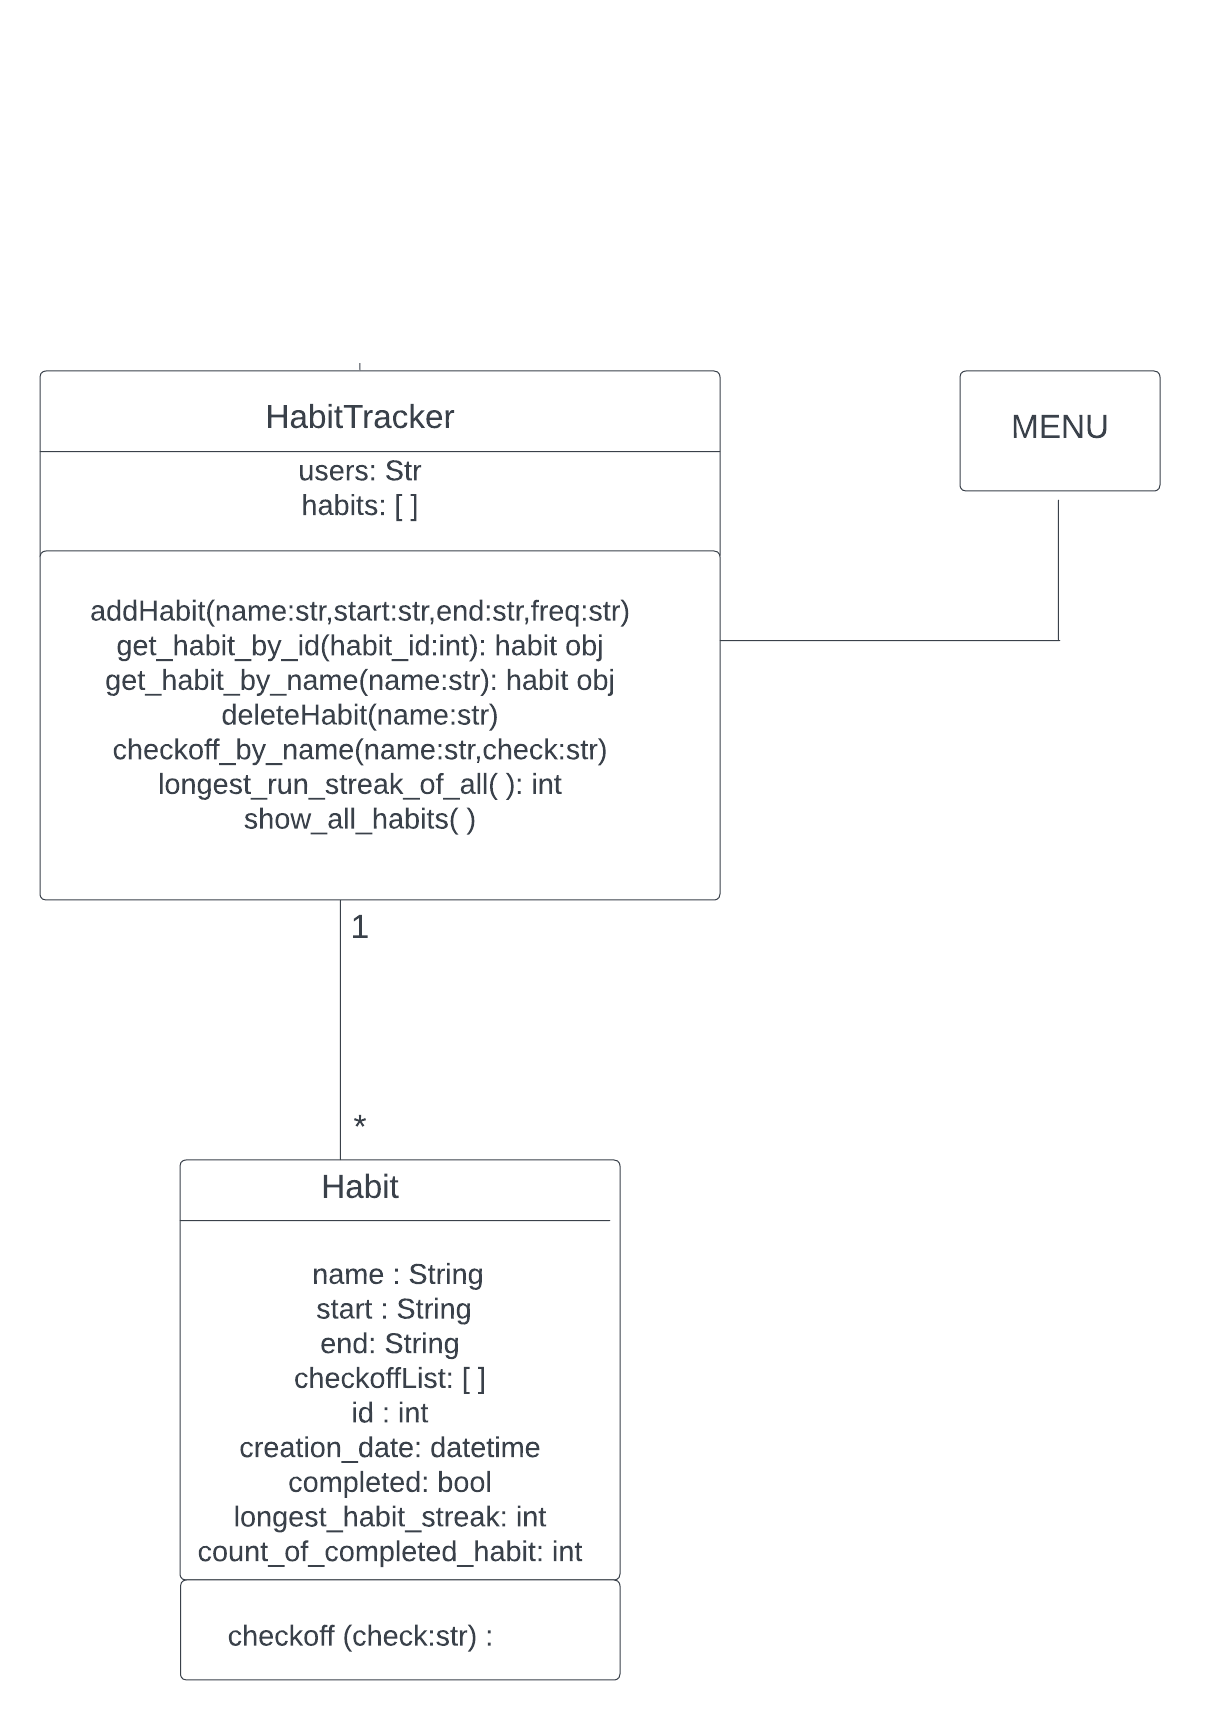
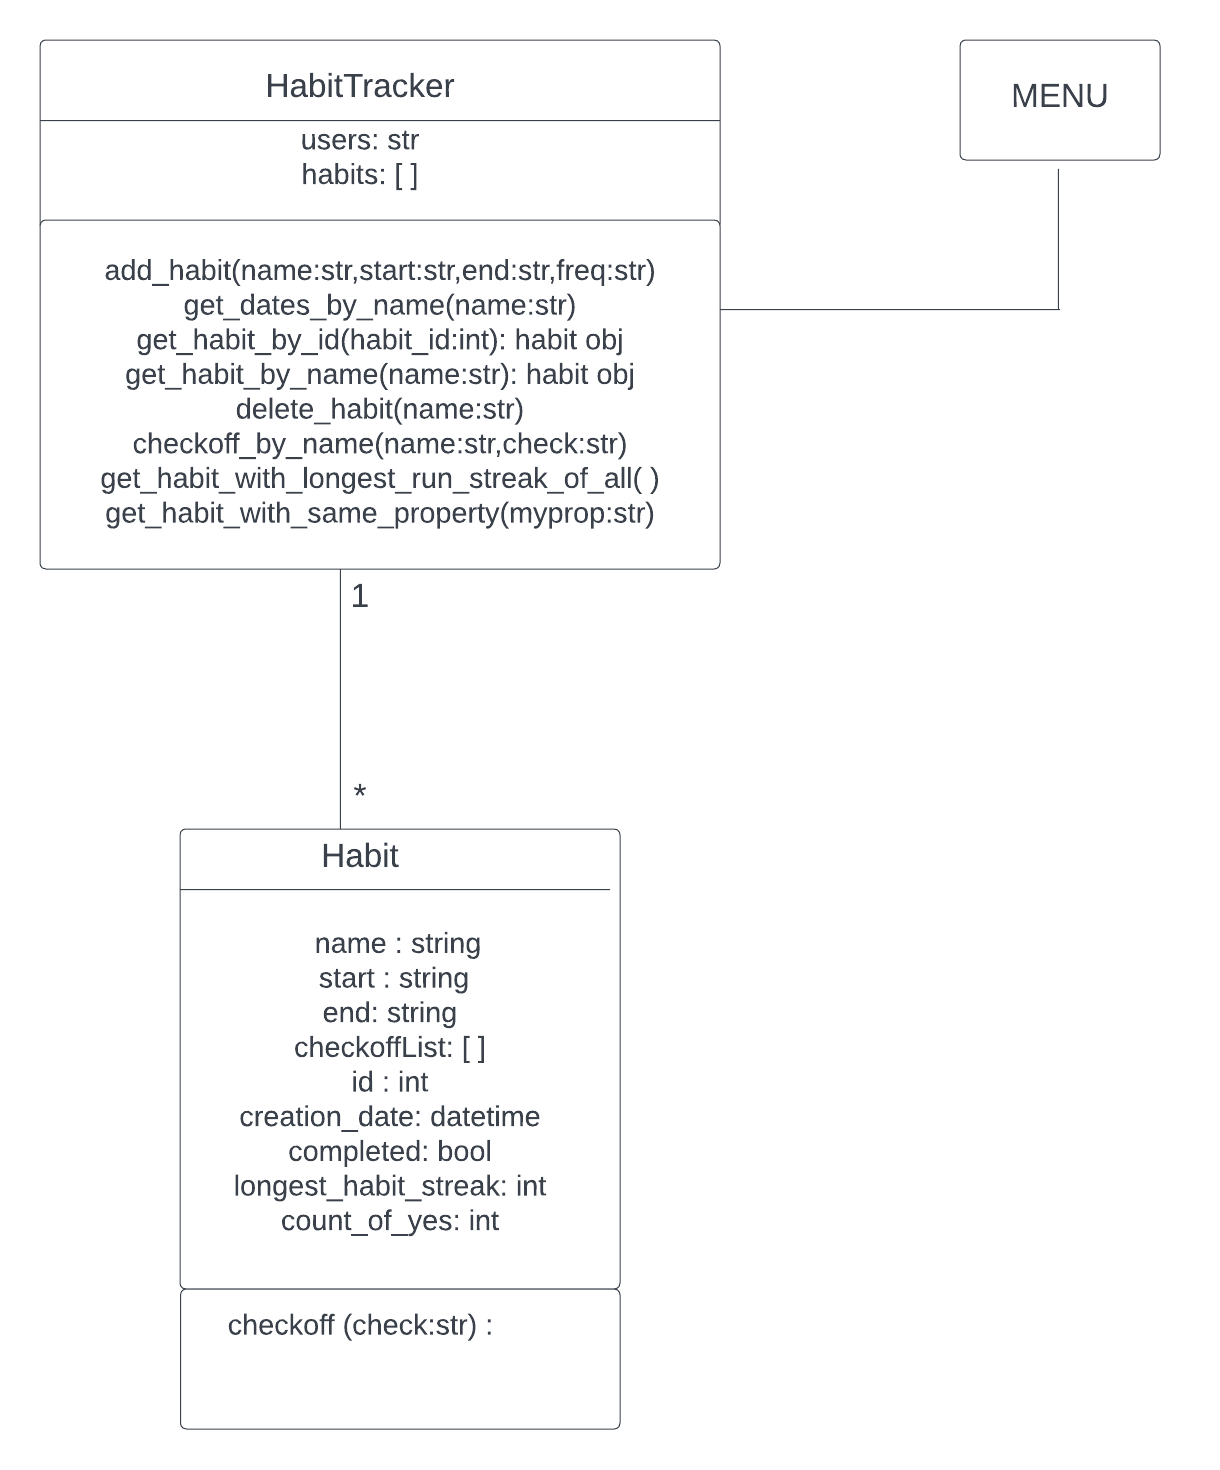
update

diff --git a/habit_tracking_app.py b/habit_tracking_app.py
@@ -15,6 +15,13 @@ class Habit:
         end (str): The date when the habit is planned to end.
         freq (str): The frequency with which the habit is planned to occur.
 
+     Additional Attributes:
+        last_id (int): The id associated with the Habit object.
+        completed (bool):default False, True if the habit is completed within the given period .
+        checkoffList (lst): A list that contains "y" or "n" to indicate whether the habit was completed or not for a day.
+        longest_habit_streak (int): The maximum number of times the habit was completed in a row.
+        count_of_yes (int): The number of 'y' in the checkoffList 
+
      Methods:
     __init__(self, name: str,start:str,end:str,freq:str) -> None
         Initializes a Habit object with the given name, starting date,end date and frequency.
@@ -44,13 +51,13 @@ class Habit:
         self.id = last_id   
         self.completed = False
         self.longest_habit_streak = None
-        self.count_of_completed_habit = None
+        self.count_of_yes = None
 
     def checkoff(self,check: Union["y","n"]):
-        """Perform operations on the properties of the habit class.
-        Adds "y" or "n" to the checkoffList property of the class, 
-        Keeps track of the number of consecutive 'y' in the checkoffList (longest_habit_streak)
-        Keeps track of the number of 'y' in the checkoffList (count_of_completed_habit)
+        """Perform operations on the attributes of the habit class.
+        Adds "y" or "n" to the checkoffList attribute of the class, 
+        Keeps the number of times the habit was completed in a row (longest_habit_streak)
+        Keeps track of the number of 'y' in the checkoffList (count_of_yes)
         Sets completed to True If the checkoffList property of the class has reached a length equal to the given period.
 
         Args:
@@ -91,7 +98,7 @@ class Habit:
               return 
         if len(self.checkoffList) == length_of_period:
             self.completed = True
-            self.count_of_completed_habit = self.checkoffList.count("y")
+            self.count_of_yes = self.checkoffList.count("y")
             self.longest_habit_streak = ans
             print(f"The daily habit of {self.name} was completed within the period of {self.start} to {self.end}")
         
@@ -330,10 +337,8 @@ if __name__=='__main__':
     myhabit = tracker.get_habit_by_name("Study Python")
 
     print(myhabit.name)
-
-    myhabit = tracker.get_habit_with_longest_run_streak_of_all
     
-    tracker.get_dates_by_name("Study Python")
+
 
     tracker.checkoff_by_name("Study Python","n")
     tracker.checkoff_by_name("Study Python","y")
@@ -361,5 +366,3 @@ if __name__=='__main__':
 
     #{'2023-04-01-2023-04-22': ['Study SQL', 'Study Python'], '2023-05-01-2023-05-22': ['Study OOP']}
     print(tracker.get_habits_with_same_property("time_period_string"))
-
-    
